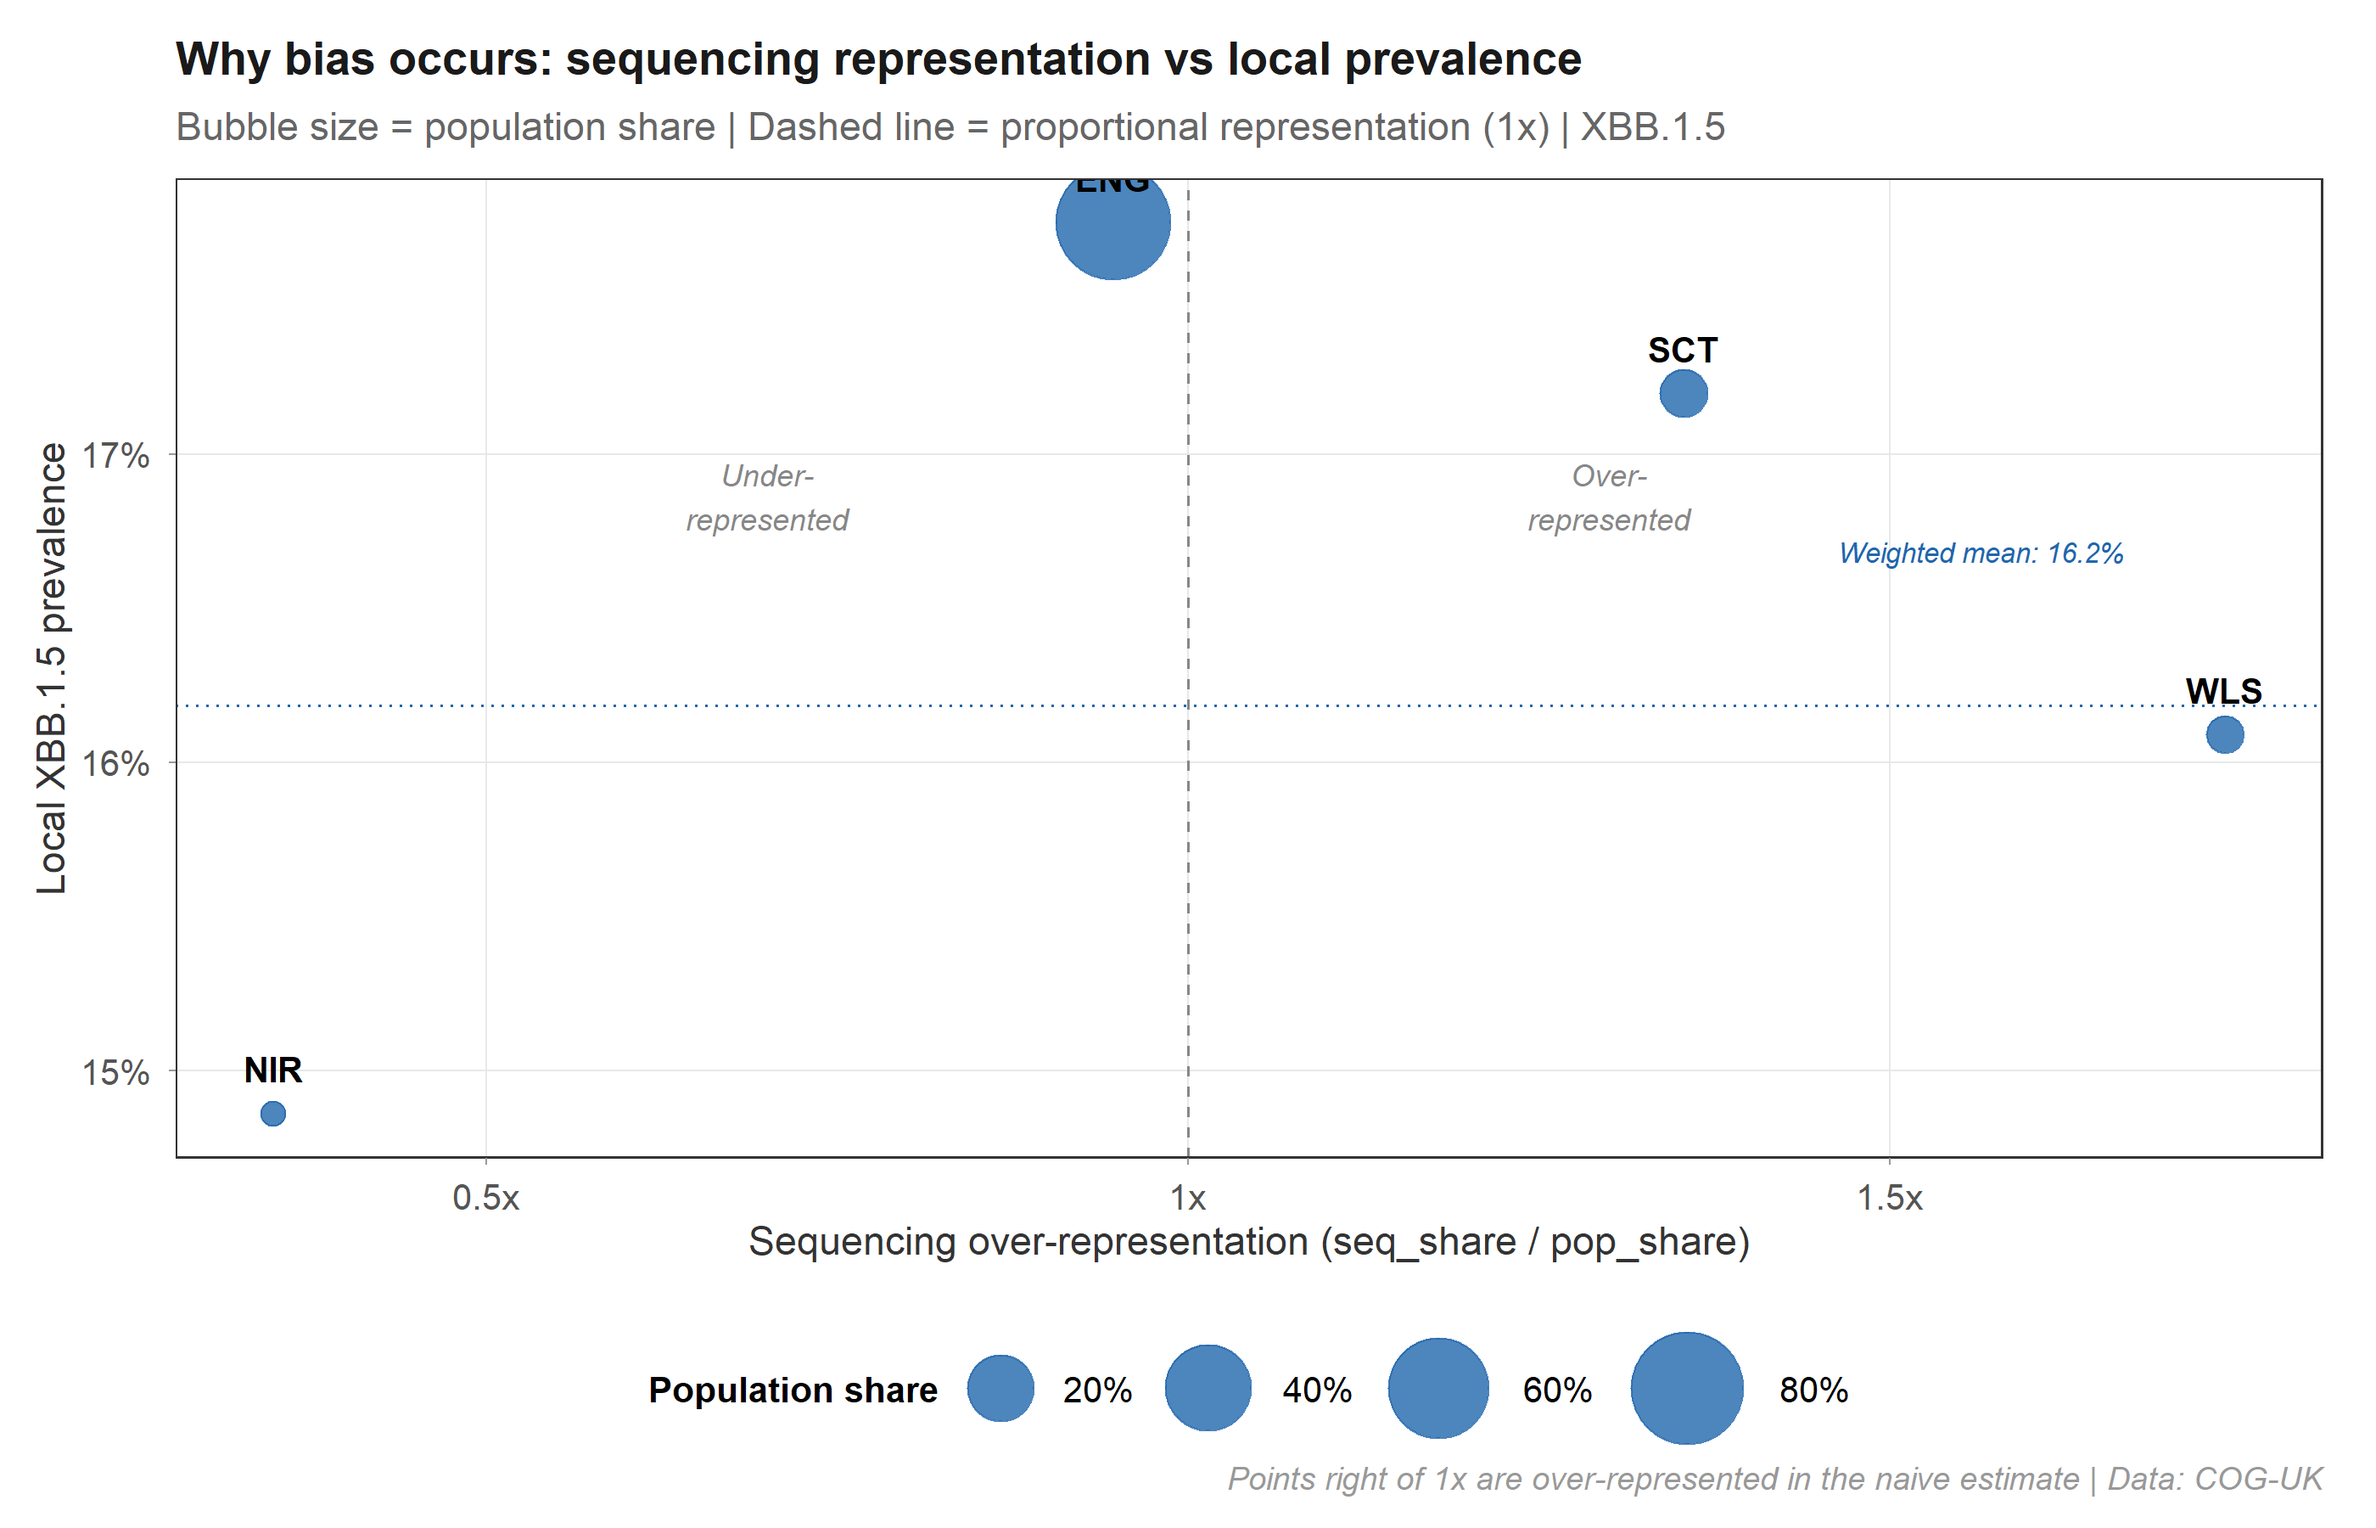
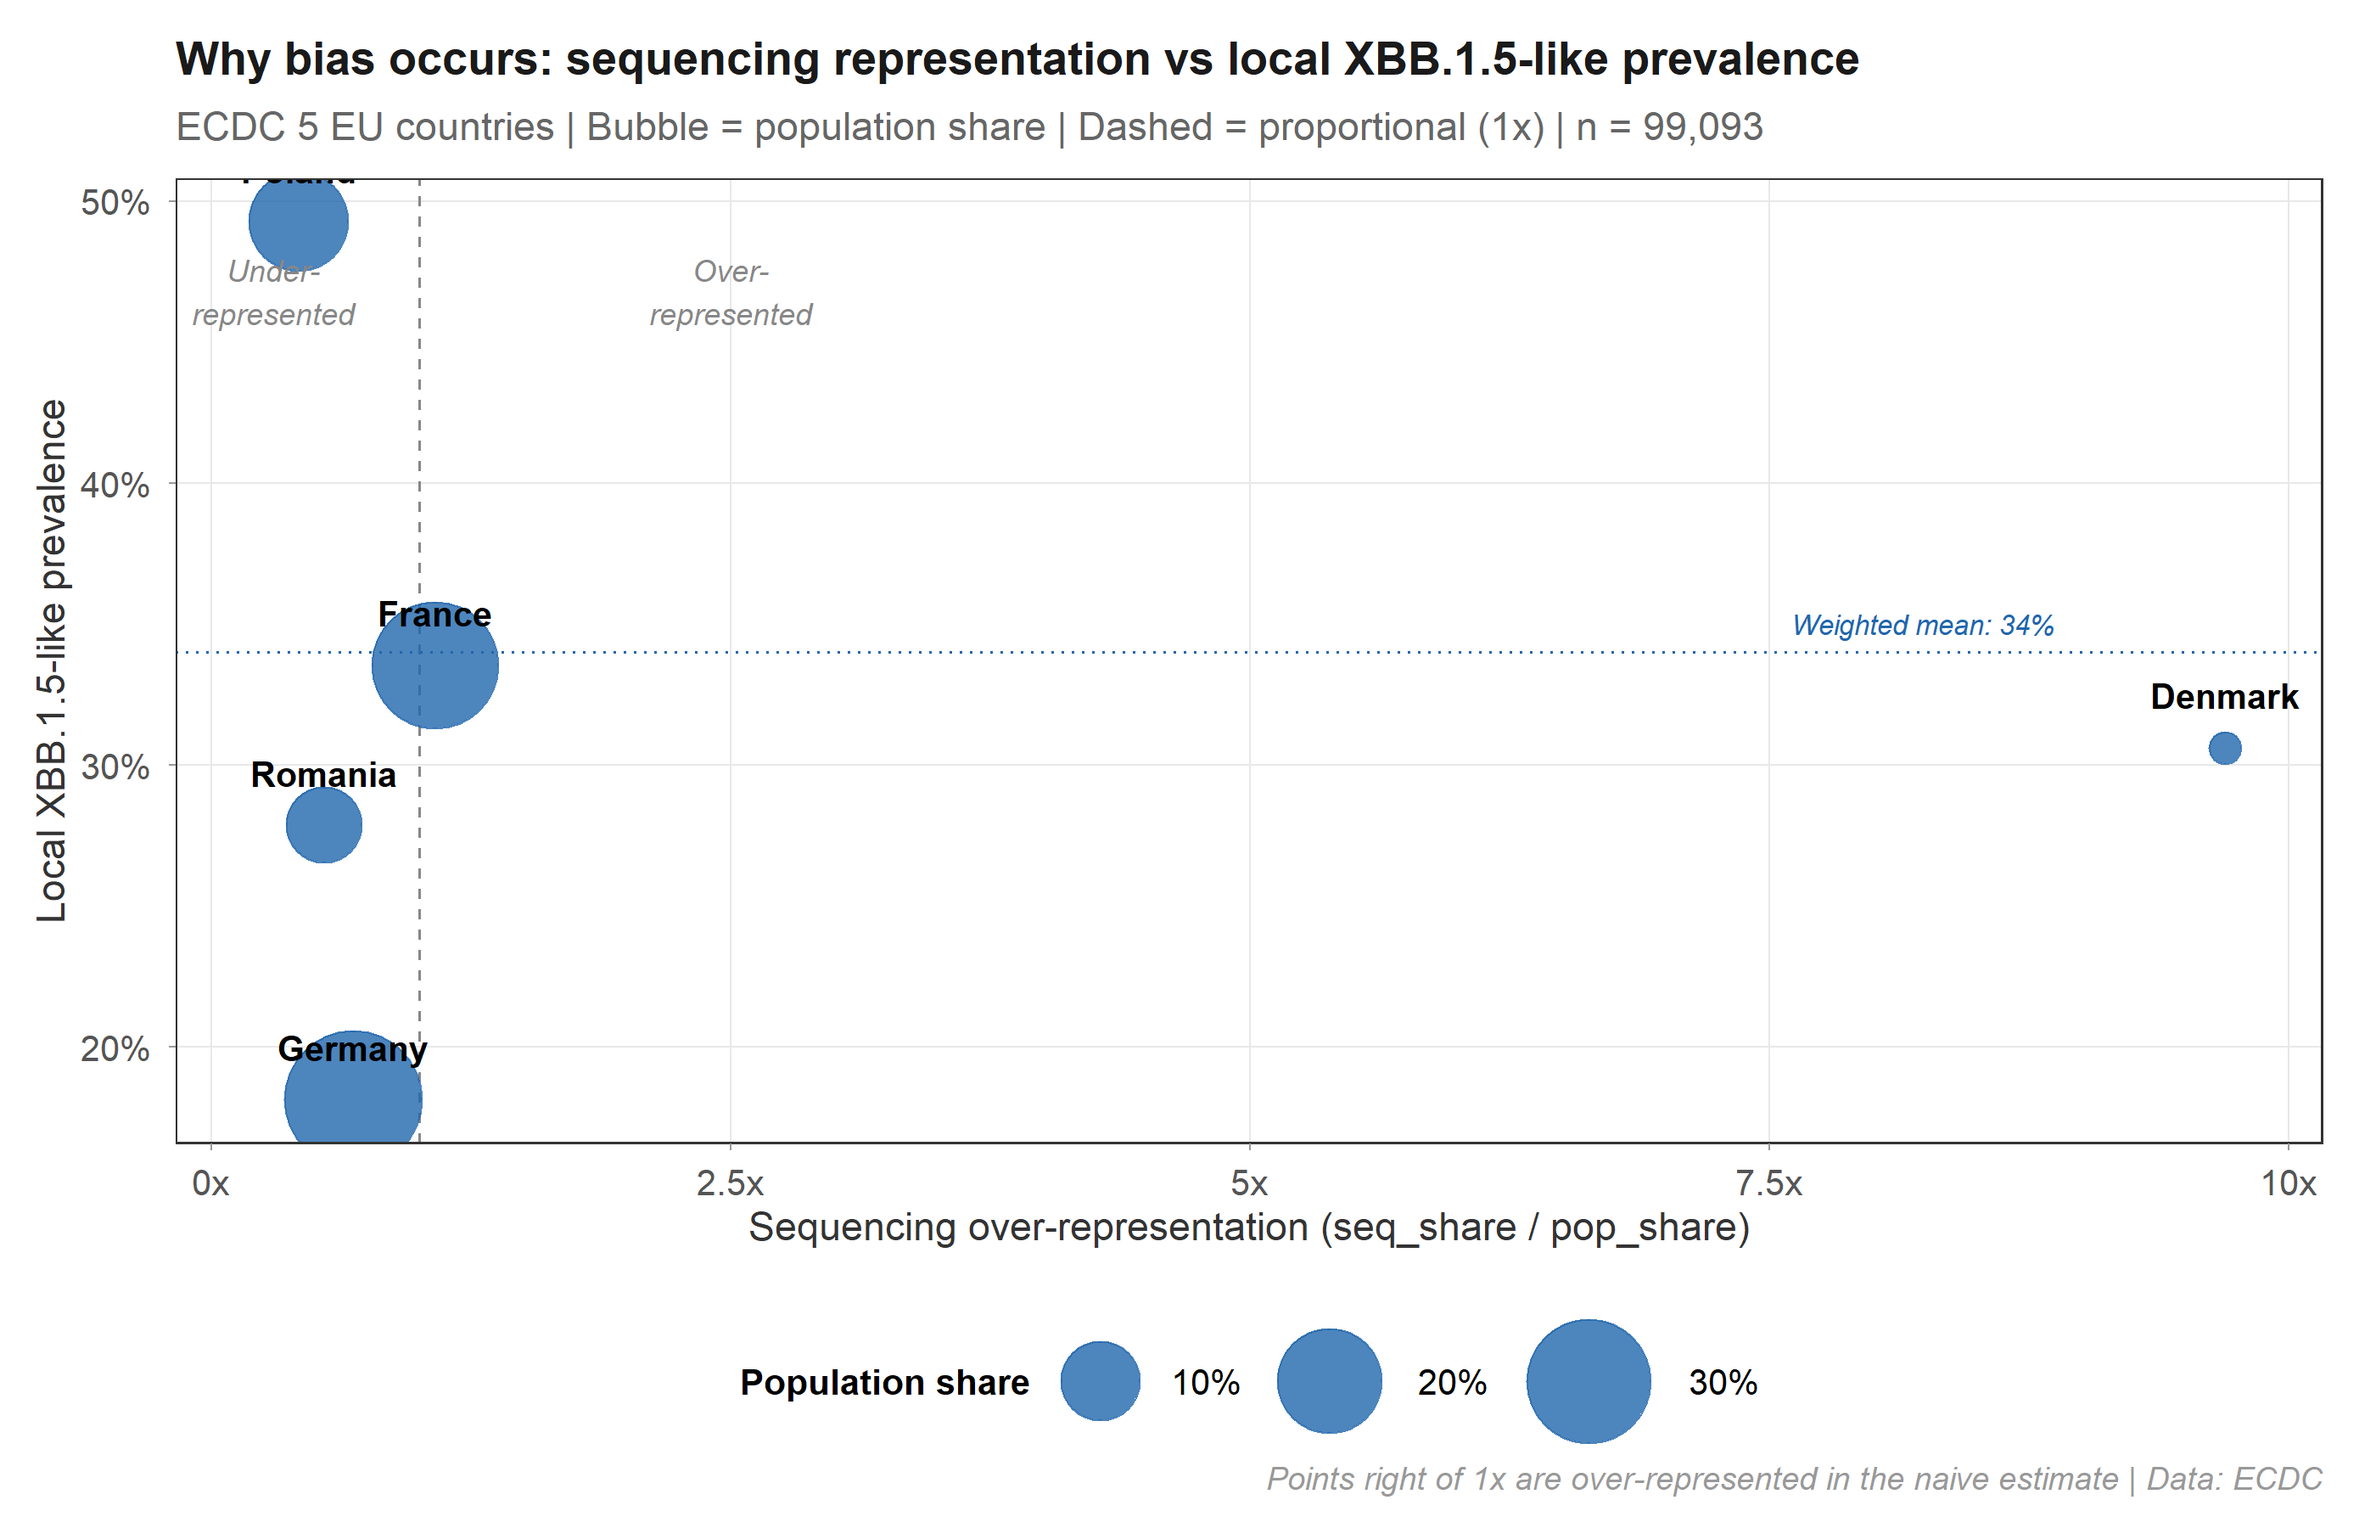
FIX figB: ECDC data — prevalence spread 18-49% (was 15-18% COG-UK)
Denmark 9.7x over-represented with 31% prevalence.
Poland 0.42x under-represented with 49% prevalence.
The bias mechanism is now visually obvious.

diff --git a/README.md b/README.md
@@ -37,7 +37,7 @@ In pathogen genomic surveillance, **sequencing rates vary up to 40-fold across r
 > **The red shaded area is the error you get from ignoring unequal sequencing.** On real ECDC data, the naive estimate (red) overestimates XBB.1.5-like prevalence by up to **14 percentage points** compared to the design-weighted estimate (blue). The bias is largest during the variant's peak — precisely when accurate estimates matter most. Mean absolute bias: 3.8 pp across all weeks.
 
 ### Where does the bias come from?
-*Data: COG-UK real sequences (n = 65,166)*
+*Data: ECDC real sequences (5 EU countries, n = 99,093)*
 
 <p align="center">
 <img src="man/figures/figB_bias_source.png" width="80%" />
